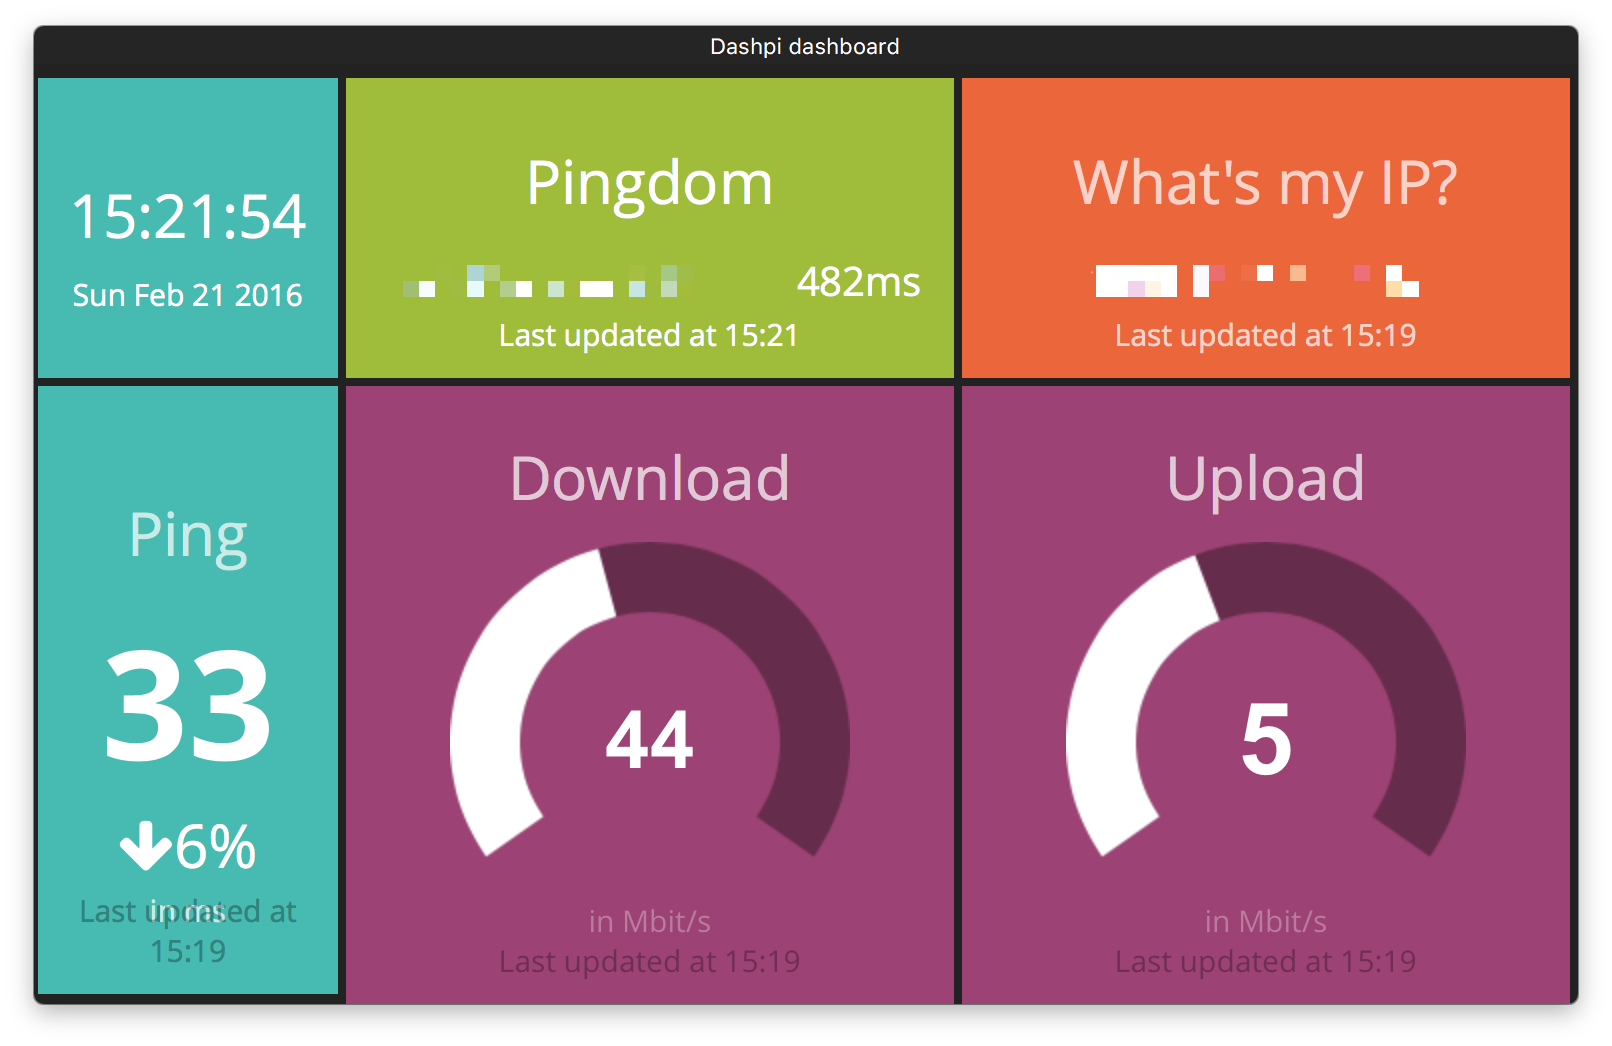
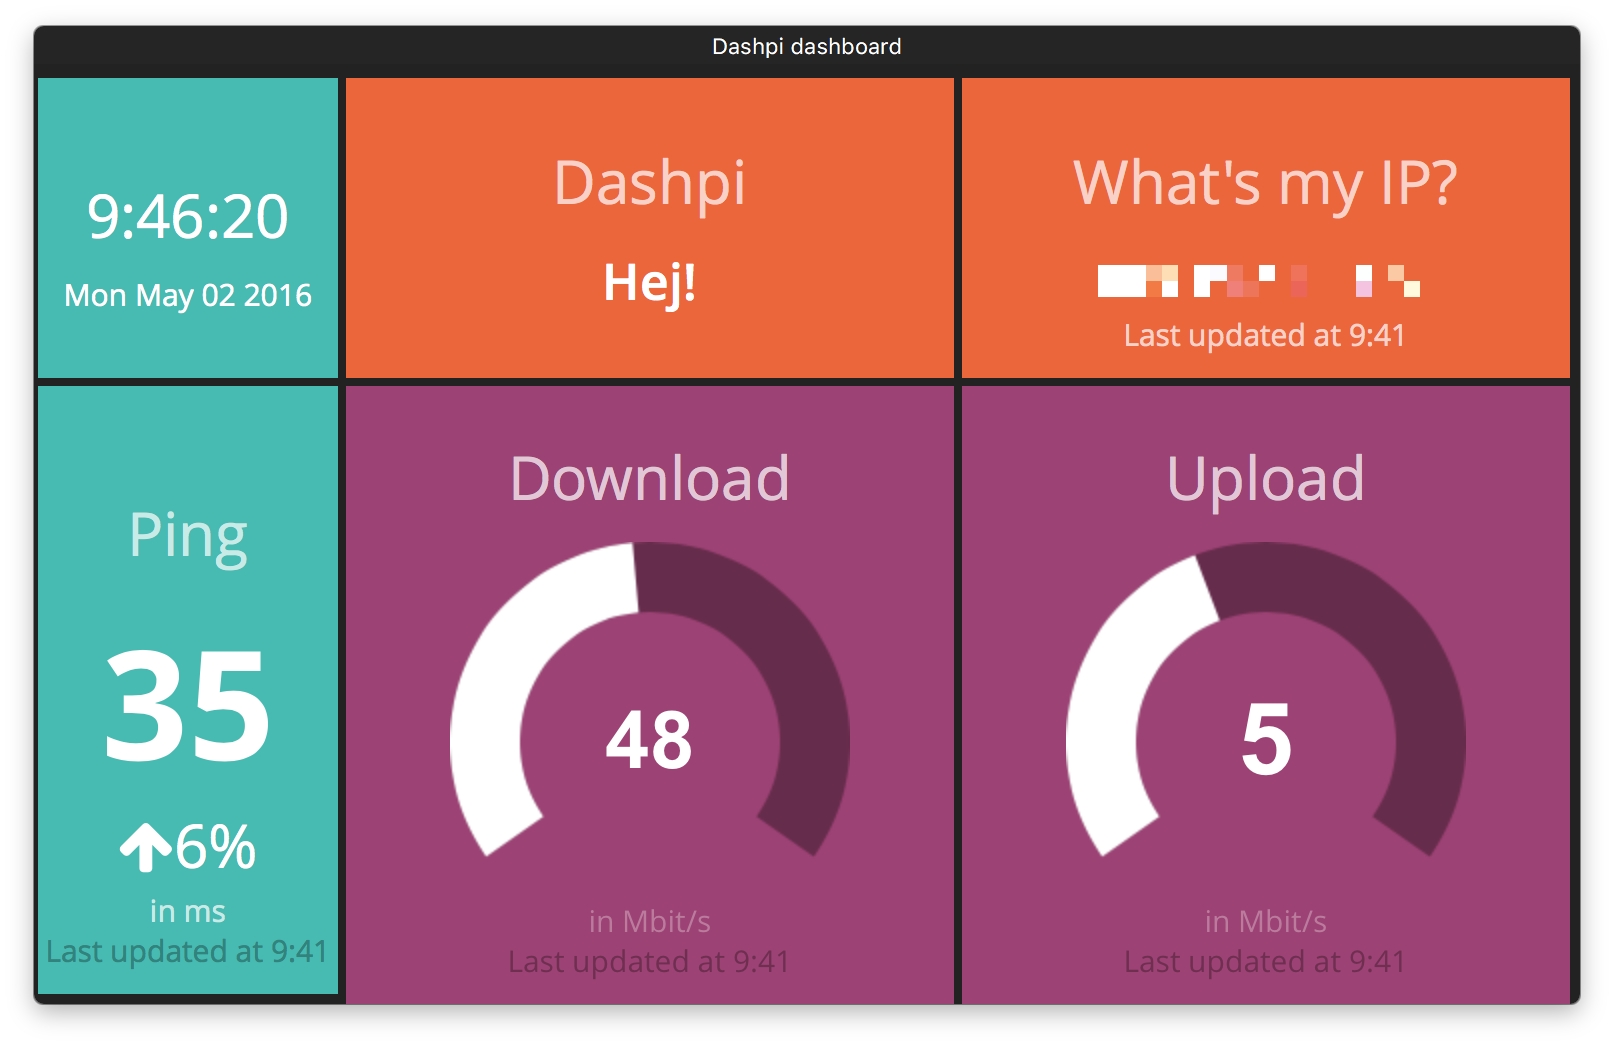
updated README and screen shot of 1th page; added screen shot of 2nd page

diff --git a/README.md b/README.md
@@ -1,23 +1,27 @@
 # dashpi
 
-Dashing dashboard w/ clock, Pingdom.com and speedtest.net (IP, Ping, Up-/ Download) widgets.
+Dashing dashboard w/ clock, UptimeRobot.com and speedtest.net (IP, Ping, Up-/ Download) widgets.
+
+**Screen shot of 1th page**
 
 ![](dashpi_screen_shot.png)
+
+**Screen shot of 2nd page**
+
+![](dashpi_screen_shot_page2.png)
 
 The dashboard is intended for deployment w/ Docker (leveraging [rpi-dashing](https://github.com/openwebcraft/rpi-dashing)) on a Raspberry Pi 1 Model A+ ARM hardware and for rendering the dashboard on the 7″ Touchscreen Monitor for Raspberry Pi.
 
 Prerequisites on Raspberry Pi:
 
 - Docker, e.g. [Hypriot Docker Image or Debian Packages for Raspberry Pi](http://blog.hypriot.com/downloads/)
-- Credentials for [Pingdom](https://www.pingdom.com/). 
+- Api Key for [Uptime Robot](https://uptimerobot.com/).
 
 Run the image from the public, pre-build image on Docker Hub [matthiasg/rpi-dashpi](https://hub.docker.com/r/matthiasg/rpi-dashpi/):
 
 ```
 $ docker run -d --restart=always -p 3030:3030 \
 	-e DASHING_AUTH_TOKEN=[YOUR_DASHING_AUTH_TOKEN] \
-	-e PINGDOM_API_KEY=[YOUR_PINGDOM_API_KEY] \
-	-e PINGDOM_USER=[YOUR_PINGDOM_USER] \
-	-e PINGDOM_PASSWORD=[YOUR_PINGDOM_PASSWORD]
+	-e UPTIMEROBOT_APIKEY=[YOUR_UPTIMEROBOT_API_KEY] \
     matthiasg/rpi-dashpi
 ```
